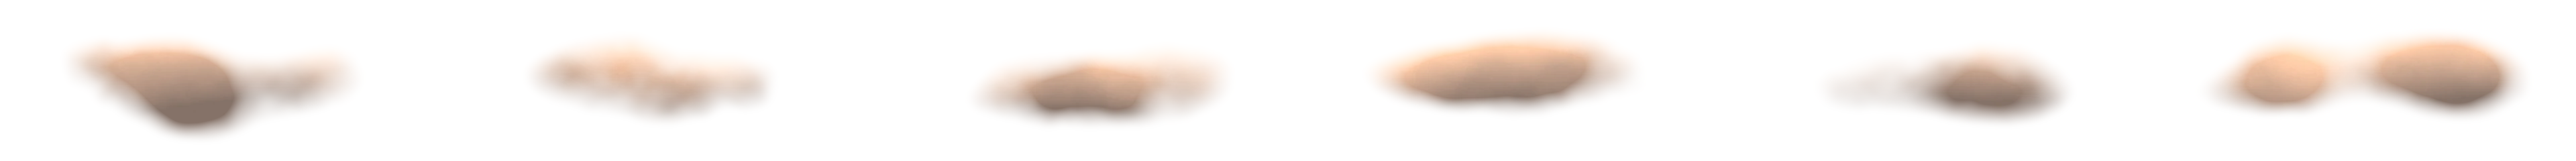
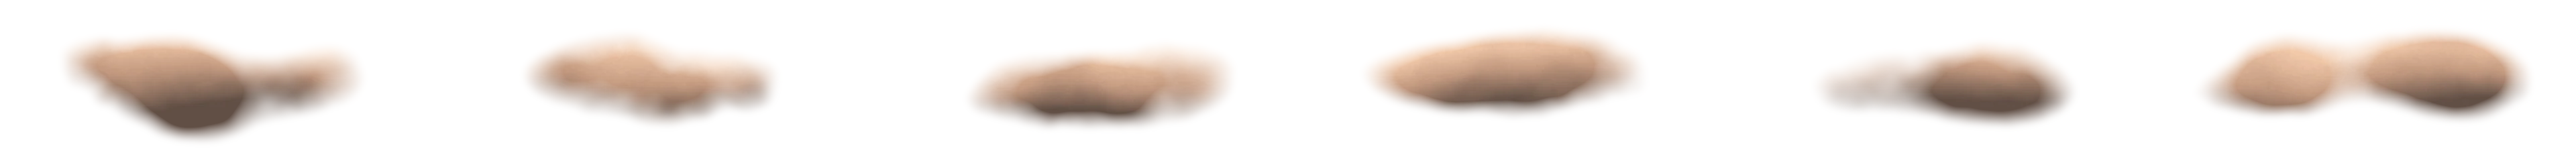
Nubes bien visibles (luces y sombras marcadas), esferas del portón y cartel delante del cielo; quieta de Elena con la trenza atrás
Claude-Session: https://claude.ai/code/session_01M12J5Dq2ffQCMYsL54s8rZ

diff --git a/src/scenes/WorldScene.ts b/src/scenes/WorldScene.ts
@@ -573,9 +573,9 @@ export class WorldScene extends Phaser.Scene {
         for (let i = 0; i < n; i++) {
           const far = i % 3; // 0 = lejos (arriba), 2 = cerca (más abajo)
           const y = 30 + far * 55 + Math.random() * 40;
-          const scl = 0.55 + far * 0.25 + Math.random() * 0.2;
+          const scl = 0.7 + far * 0.3 + Math.random() * 0.25;
           const cl = this.add.image((i / n) * W + Math.random() * 180, y, pk + '-clouds', Math.floor(Math.random() * 6))
-            .setDepth(-19.6 + far * 0.03).setScale(scl, scl * (0.85 + Math.random() * 0.3)).setAlpha(0.82 + far * 0.07).setFlipX(Math.random() < 0.5);
+            .setDepth(-19.6 + far * 0.03).setScale(scl, scl * (0.85 + Math.random() * 0.3)).setAlpha(0.85 + far * 0.05).setFlipX(Math.random() < 0.5);
           if (!this.opts.reduceMotion) this.clouds.push({ spr: cl, speed: 12 + far * 12 + Math.random() * 6 });
           this.layerObjs.push(cl);
         }

diff --git a/tools/skydrift.py b/tools/skydrift.py
@@ -12,9 +12,9 @@ fg = np.array(Image.open(base + '-fg.webp').convert('RGBA'))
 sky = fg[..., 3] < 20
 px = plate[sky]
 lum = px.mean(1)
-hi = px[lum >= np.percentile(lum, 88)].mean(0) * 1.18   # cara iluminada
+hi = px[lum >= np.percentile(lum, 88)].mean(0) * 0.7 + np.array([255, 246, 232]) * 0.3   # cara iluminada
 mid = px[(lum > np.percentile(lum, 40)) & (lum < np.percentile(lum, 60))].mean(0)
-lo = px[lum <= np.percentile(lum, 15)].mean(0) * 0.74   # panza en sombra
+lo = px[lum <= np.percentile(lum, 15)].mean(0) * 0.62   # panza en sombra
 FW, FH, N = 640, 240, 6
 yy, xx = np.mgrid[0:FH, 0:FW].astype(np.float32)
 def fbm(oct=5):
@@ -47,7 +47,7 @@ for k in range(N):
     tone = 1 - v
     col = np.where(tone[..., None] > 0.5, mid + (hi - mid) * ((tone[..., None] - 0.5) * 2), lo + (mid - lo) * (tone[..., None] * 2))
     col *= (0.96 + 0.08 * gaussian_filter(rng.random((FH, FW)), 1.0))[..., None]
-    a = np.clip(d * 1.1, 0, 0.85) ** 1.15
+    a = np.clip(d * 1.7, 0, 0.95) ** 0.9
     frames.append(np.dstack([np.clip(col, 0, 255), a * 255]).astype(np.uint8))
 Image.fromarray(np.concatenate(frames, 1), 'RGBA').save(base + '-clouds.webp', quality=88)
 print(base, 'nubes', N)
